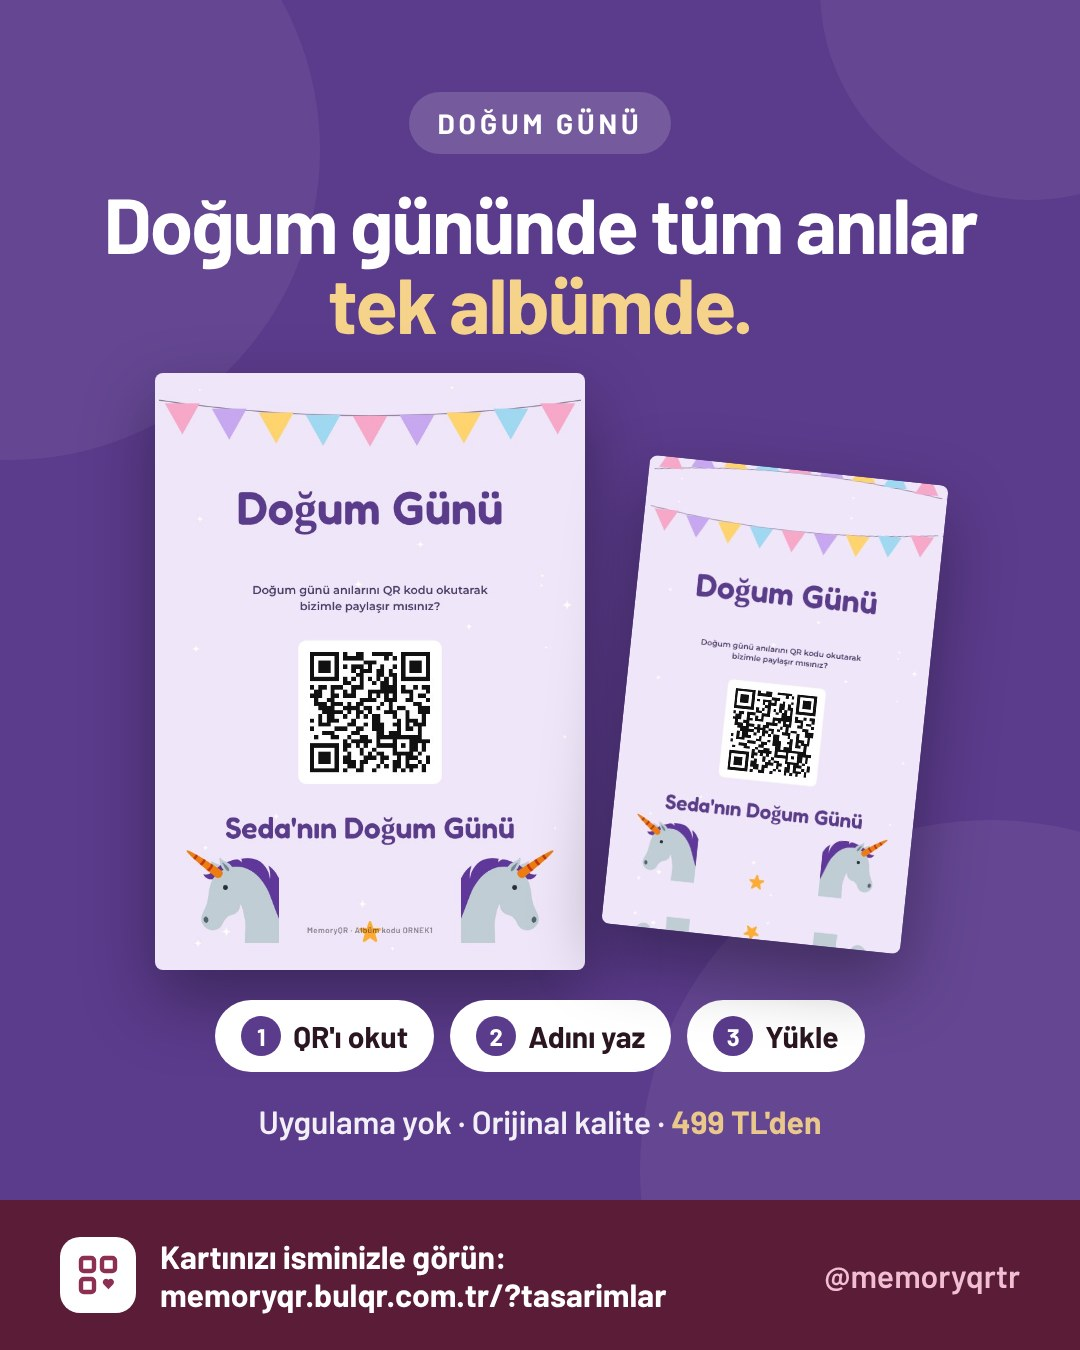
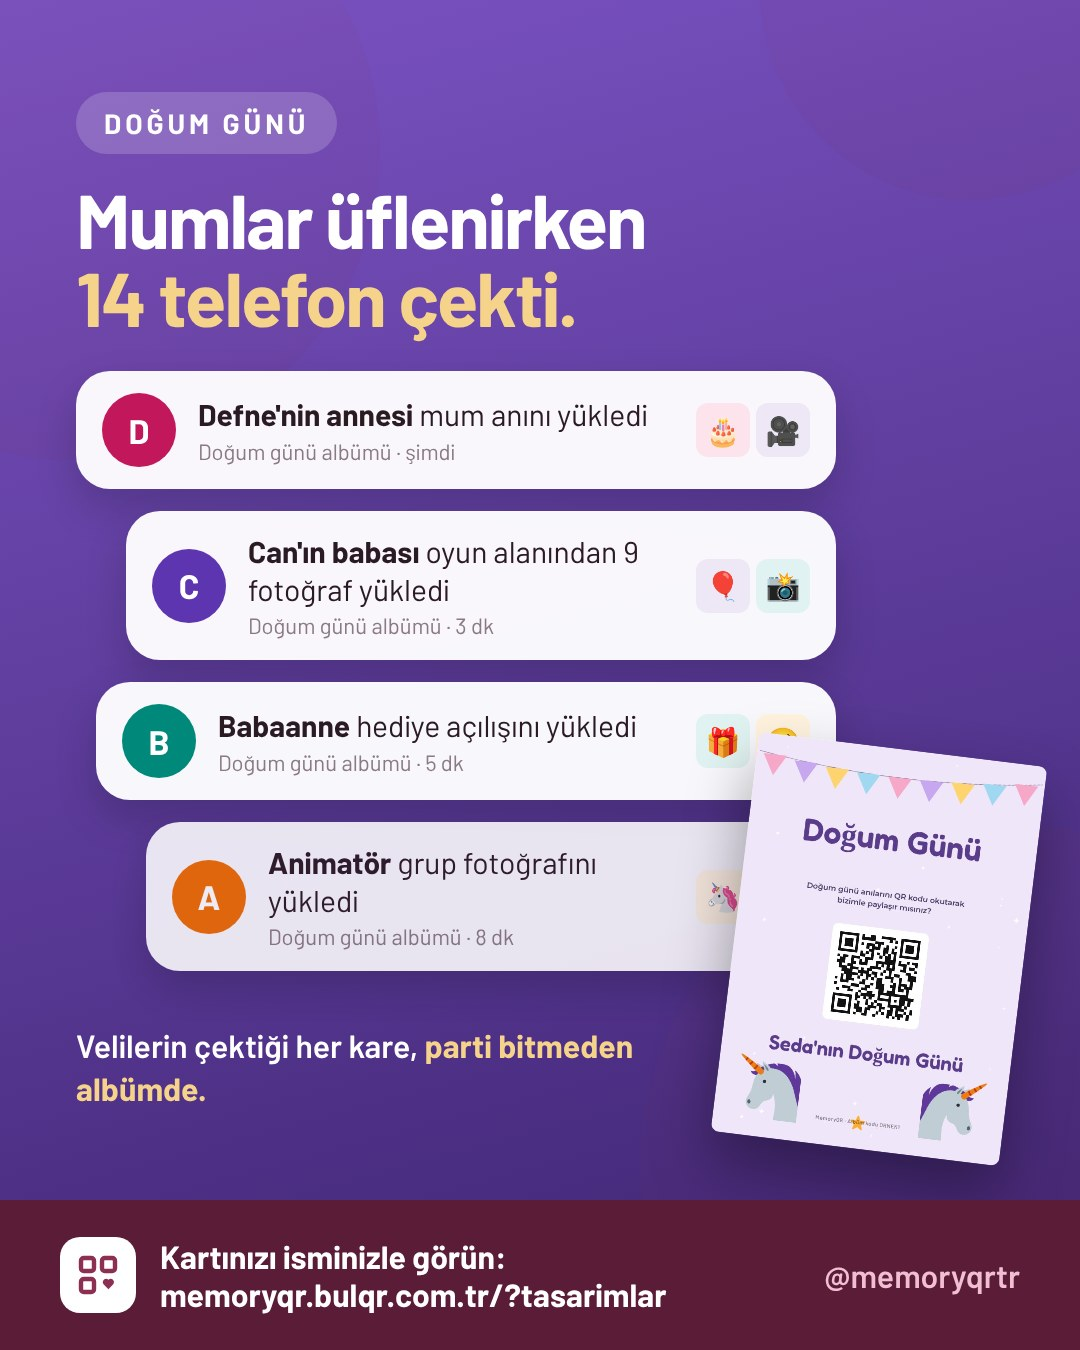
Instagram etkinlik serisi yeniden: her etkinliğe özel espri ve albüme düşen misafir bildirimleri (E17-E23)
Claude-Session: https://claude.ai/code/session_013LggcHU5H3775AuoLzGk1M

diff --git a/pazarlama/ig/ekstra.js b/pazarlama/ig/ekstra.js
@@ -204,19 +204,46 @@ const IG_EKSTRA = [
         ["kilit", "Gizlilik", "Albümün tamamını yalnızca siz görürsünüz."],
         ["hediye", "Ek: 1 yıl saklama", "+299 TL, Google Drive arşivi."]], bant: "Tek seferlik ödeme, | abonelik yok."},
       {tpl: "m-cta", b: ["Paketinizi seçin,", "siparişi başlatın."]}]},
-  // ---- etkinlik türü serisi: her tür ayrı gönderi (gerçek kart tasarımı + kartvizit)
+  // ---- etkinlik serisi: her etkinliğin kendi esprisi; albüme düşen misafir bildirimleri ve köşede gerçek kart
   ...[
-    ["Düğün", "dugun", "Seda & Yusuf", "lacivert_barok", "#5a1c36", ["Düğününüzün tüm anıları", "tek albümde."], "#düğünfotoğrafları"],
-    ["Kına gecesi", "kina", "Seda'nın Kına Gecesi", "bordo_gul", "#7a1a24", ["Kına gecesinin her karesi", "tek albümde."], "#kınaorganizasyonu"],
-    ["Nişan", "nisan", "Seda & Yusuf", "pudra_yuzuk", "#6d4a5a", ["Nişan anılarınız", "için tek QR."], "#nişanhazırlığı"],
-    ["Doğum günü", "dogum_gunu", "Seda'nın Doğum Günü", "unicorn", "#5b3b8c", ["Doğum gününde tüm anılar", "tek albümde."], "#doğumgünüpartisi"],
-    ["Mezuniyet", "mezuniyet", "Hukuk Fakültesi Mezuniyet Balosu", "mezun_lacivert", "#14295a", ["Bütün sınıfın fotoğrafları", "tek albümde."], "#mezuniyetbalosu"],
-    ["Sünnet", "sunnet", "Uras'ın Sünnet Düğünü", "sunnet_prens", "#13234d", ["Sünnet düğününüz", "tek albümde."], "#sünnetdüğünü"],
-    ["Baby shower", "baby_shower", "Seda'nın Baby Shower'ı", "bebek_pembe", "#a8486c", ["Baby shower'da", "her an tek albümde."], "#babyshower"],
-  ].map(([ad, kind, isim, tasarim, renk, b, tag]) => ({t: "gonderi", h: `Etkinlik serisi: ${ad}`,
-    ne: "Seriden bir gönderi. Hepsini art arda değil, haftaya yayarak paylaş; profilde yan yana renkli bir dizi oluşur.",
-    cap: `${ad} için QR kodlu ortak albüm 📸\n\nMisafirleriniz masadaki QR'ı okutur, adını yazar, çektiği fotoğraf ve videoları yükler. Uygulama yok, orijinal kalite. Kart ve kartvizit kendi isminizle hazırlanır.\n\n💌 Paketler 499 TL'den başlıyor.\n👉 Tasarımınızı seçin: link profilde`,
-    tags: [tag, "#qrkod", "#anıalbümü", "#misafirfotoğrafları"],
-    slides: [{tpl: "m-tur", etiket: ad, kind, isim, tasarim, renk, b}]})),
+    {ad: "Düğün", kind: "dugun", isim: "Seda & Yusuf", tasarim: "lacivert_barok", renk: "#4a1530", renk2: "#8c2f52", tag: "#düğünfotoğrafları",
+      b: ["Halanız 47 fotoğraf çekti.", "Hepsi albümünüzde."], albumAd: "Seda & Yusuf albümü",
+      bildirim: [["Halan", "47 fotoğraf yükledi", ["💃", "📸"], "şimdi"], ["Kuzen Mert", "ilk dansı 3 videoyla yükledi", ["🎥", "💞"], "2 dk"], ["Masa 7", "toplu fotoğrafı yükledi", ["👨👩👧", "🥂"], "5 dk"], ["Dedeniz", "1 video yükledi (biraz titrek)", ["😄", "🎥"], "8 dk"]],
+      alt: "Fotoğrafçının göremediği her an, **misafirlerin gözünden.**",
+      cap: "Düğünün en güzel kareleri genelde misafirlerin telefonunda kalır 📸\n\nMemoryQR'da masadaki QR'ı okutan herkes çektiğini doğrudan albümünüze yükler. Halanızın 47 fotoğrafı da, dedenizin titrek videosu da 😄\n\n💌 Paketler 499 TL'den. 👉 Tasarımınızı seçin: link profilde"},
+    {ad: "Kına gecesi", kind: "kina", isim: "Seda'nın Kına Gecesi", tasarim: "bordo_gul", renk: "#5a0e18", renk2: "#a3263a", tag: "#kınaorganizasyonu",
+      b: ["Halay videosu kimdeydi?", "Artık albümünüzde."], albumAd: "Kına gecesi albümü",
+      bildirim: [["Teyzen", "halay videosunu yükledi", ["💃", "🎶"], "şimdi"], ["Elif", "kına yakılırken 12 fotoğraf yükledi", ["🔴", "📸"], "3 dk"], ["Annen", "'Yüksek yüksek tepelere' videosunu yükledi", ["🎤", "🥹"], "6 dk"], ["Zeynep", "bindallı fotoğraflarını yükledi", ["👑", "✨"], "9 dk"]],
+      alt: "Türküler, halaylar, gözyaşları: **kına bir kere yaşanır.**",
+      cap: "Kına gecesinin en güzel videoları hep birilerinin telefonunda kalır 💃\n\nMemoryQR ile masadaki QR'ı okutan herkes çektiğini doğrudan albümünüze yükler. Kına + düğün için 2 albümlü Aile paketimiz de var.\n\n👉 Tasarımınızı seçin: link profilde"},
+    {ad: "Nişan", kind: "nisan", isim: "Seda & Yusuf", tasarim: "pudra_yuzuk", renk: "#5e3a48", renk2: "#a06a7c", tag: "#nişanhazırlığı",
+      b: ["Yüzük anı,", "6 farklı açıdan."], albumAd: "Nişan albümü",
+      bildirim: [["Kayınvalide", "yüzük anını yükledi", ["💍", "📸"], "şimdi"], ["Abin", "aynı anı başka açıdan yükledi", ["💍", "🎥"], "1 dk"], ["Nişan masası", "8 fotoğraf yükledi", ["🌸", "🥂"], "4 dk"], ["Kuzen Ayşe", "aile fotoğrafını yükledi", ["👨👩👧👦", "✨"], "7 dk"]],
+      alt: "İki ailenin ilk ortak fotoğrafları **tek albümde.**",
+      cap: "Yüzükler takılırken herkes telefonunu kaldırır 💍 O kareleri tek tek istemenize gerek yok.\n\nMemoryQR'da QR'ı okutan her misafir çektiğini doğrudan albümünüze yükler.\n\n👉 Tasarımınızı seçin: link profilde"},
+    {ad: "Doğum günü", kind: "dogum_gunu", isim: "Seda'nın Doğum Günü", tasarim: "unicorn", renk: "#3d2470", renk2: "#7a52c2", tag: "#doğumgünüpartisi",
+      b: ["Mumlar üflenirken", "14 telefon çekti."], albumAd: "Doğum günü albümü",
+      bildirim: [["Defne'nin annesi", "mum anını yükledi", ["🎂", "🎥"], "şimdi"], ["Can'ın babası", "oyun alanından 9 fotoğraf yükledi", ["🎈", "📸"], "3 dk"], ["Babaanne", "hediye açılışını yükledi", ["🎁", "🥹"], "5 dk"], ["Animatör", "grup fotoğrafını yükledi", ["🦄", "✨"], "8 dk"]],
+      alt: "Velilerin çektiği her kare, **parti bitmeden albümde.**",
+      cap: "Parti biter, fotoğraflar 14 farklı velinin telefonunda kalır 🎈\n\nMemoryQR ile pastanın yanındaki QR'ı okutan herkes çektiğini albüme yükler. Çocuğunuzun ismiyle hazır kartlar.\n\n👉 Tasarımınızı seçin: link profilde"},
+    {ad: "Mezuniyet", kind: "mezuniyet", isim: "Hukuk Fakültesi Mezuniyet Balosu", tasarim: "mezun_lacivert", renk: "#0d1d42", renk2: "#2a4a8c", tag: "#mezuniyetbalosu",
+      b: ["Kep atma anı,", "bütün sınıfın gözünden."], albumAd: "Mezuniyet albümü",
+      bildirim: [["Melis", "kep atma videosunu yükledi", ["🎓", "🎥"], "şimdi"], ["Sınıf başkanı", "toplu fotoğrafı yükledi", ["👩🎓", "📸"], "2 dk"], ["Burak", "balodan 22 fotoğraf yükledi", ["🕺", "✨"], "6 dk"], ["Hocamız", "konuşmasını yükledi", ["🎤", "👏"], "9 dk"]],
+      alt: "Sınıf grubuna kimse atmaz. **Albüme herkes yükler.**",
+      cap: "Balo gecesi herkes çeker, kimse paylaşmaz 🎓\n\nMemoryQR ile masalardaki QR'ı okutan her mezun çektiğini sınıfın ortak albümüne yükler. Sınıf temsilcileri, bize yazın.\n\n👉 Tasarımlar: link profilde"},
+    {ad: "Sünnet", kind: "sunnet", isim: "Uras'ın Sünnet Düğünü", tasarim: "sunnet_prens", renk: "#0e1c40", renk2: "#2b4a86", tag: "#sünnetdüğünü",
+      b: ["Dedesinin çektiği", "en güzel video da albümde."], albumAd: "Sünnet düğünü albümü",
+      bildirim: [["Dede", "1 video yükledi (biraz bulanık)", ["👑", "🥹"], "şimdi"], ["Amcan", "ata binme anını yükledi", ["🐎", "🎥"], "2 dk"], ["Teyzen", "takı merasiminden 15 fotoğraf yükledi", ["✨", "📸"], "5 dk"], ["Kuzen Efe", "dans videosunu yükledi", ["💃", "🎶"], "8 dk"]],
+      alt: "Küçük prensin büyük günü, **herkesin gözünden.**",
+      cap: "Sünnet düğününde en kıymetli kareler, dedenin titrek ellerle çektiği videolardır 🤍\n\nMemoryQR ile masadaki QR'ı okutan herkes çektiğini albümünüze yükler. Uygulama yok, orijinal kalite.\n\n👉 Tasarımınızı seçin: link profilde"},
+    {ad: "Baby shower", kind: "baby_shower", isim: "Seda'nın Baby Shower'ı", tasarim: "bebek_pembe", renk: "#8a3458", renk2: "#d07a9a", vurgu: "#fff1b8", tag: "#babyshower",
+      b: ["Kız mı, erkek mi?", "O an herkesin gözünden."], albumAd: "Baby shower albümü",
+      bildirim: [["Annen", "açıklama anını yükledi", ["🎈", "🥹"], "şimdi"], ["Kardeşin", "aynı anı yavaş çekimle yükledi", ["🎀", "🎥"], "1 dk"], ["İş arkadaşların", "9 fotoğraf yükledi", ["🧸", "📸"], "4 dk"], ["Eşin", "ilk tepkini yükledi", ["💞", "😂"], "6 dk"]],
+      alt: "Bebeğinize ilk albümü **misafirleriniz hazırlasın.**",
+      cap: "Kız mı erkek mi açıklandığı an, salondaki herkes kaydediyordu 🎈\n\nMemoryQR ile QR'ı okutan herkes çektiğini doğrudan albümünüze yükler. Bebeğinize ilk albüm hediyesi 🤍\n\n👉 Tasarımınızı seçin: link profilde"},
+  ].map(e => ({t: "gonderi", h: `Etkinlik serisi: ${e.ad}`,
+    ne: "Seriden bir gönderi. Haftaya yayarak paylaş; her birinin kendi esprisi var, profilde renkli bir dizi oluşur.",
+    cap: e.cap, tags: [e.tag, "#qrkod", "#anıalbümü", "#misafirfotoğrafları"],
+    slides: [{tpl: "m-bil", etiket: e.ad, ...e}]})),
 ];
 if (typeof module !== "undefined") module.exports = {IG_EKSTRA};

diff --git a/pazarlama/ig/sablon.html b/pazarlama/ig/sablon.html
@@ -180,6 +180,21 @@ body{margin:0;background:#888;font-family:var(--body)}
 .m.tur .tst i{font-style:normal;width:40px;height:40px;border-radius:50%;background:var(--tz);color:#fff;display:grid;place-items:center;font-size:24px}
 .m.tur .tpr{align-self:center;color:#fff;font:600 32px var(--body);opacity:.92}.m.tur .tpr b{color:var(--ta)}
 .m.tur .circ{background:rgba(255,255,255,.06)}
+
+/* bildirim serisi (m-bil): etkinliğe özel esprili başlık, albüme düşen misafir bildirimleri, köşede gerçek kart */
+.m.bil{background:linear-gradient(165deg,var(--tz2) 0%,var(--tz) 100%)}
+.m.bil .tag{background:rgba(255,255,255,.18);color:#fff}
+.m.bil .mh{color:#fff;font-size:76px}.m.bil .mh em{color:var(--ta)}
+.m.bil .nots{position:relative;display:grid;gap:22px;width:760px;margin-top:10px}
+.m.bil .nt{display:flex;align-items:center;gap:22px;background:rgba(255,255,255,.96);border-radius:34px;padding:22px 26px;box-shadow:0 18px 40px rgba(0,0,0,.18)}
+.m.bil .nt:nth-child(2){margin-left:50px}.m.bil .nt:nth-child(3){margin-left:20px}.m.bil .nt:nth-child(4){margin-left:70px;opacity:.9}
+.m.bil .av{width:74px;height:74px;border-radius:50%;display:grid;place-items:center;font:700 34px var(--body);color:#fff;flex:none}
+.m.bil .nt p{margin:0;flex:1;font:500 30px/1.25 var(--body);color:#2a1a22}.m.bil .nt p b{font-weight:700}
+.m.bil .nt small{display:block;font:500 22px var(--body);color:#8a7a82;margin-top:4px}
+.m.bil .th3{display:flex;gap:6px}.m.bil .th3 i{width:54px;height:54px;border-radius:12px;display:grid;place-items:center;font-style:normal;font-size:28px}
+.m.bil .kcard{position:absolute;right:56px;bottom:200px;width:290px;transform:rotate(7deg);border-radius:8px;box-shadow:0 30px 60px rgba(0,0,0,.35)}
+.m.bil .alt2{position:absolute;left:76px;bottom:208px;width:560px;font:600 32px/1.35 var(--body);color:#fff}
+.m.bil .alt2 b{color:var(--ta)}
 </style>
 </head>
 <body>
@@ -282,6 +297,17 @@ async function renderM(el, s, d) {
       <p class="mt" style="font-size:36px;margin-top:-6px">${md(s.kime)}</p>
       <div class="pkimg" style="background-image:url(${img})"></div>
       <ul class="pkl">${s.maddeler.map(x => `<li><span>${md(x)}</span></li>`).join("")}</ul></div>${band(s)}`;
+  } else if (t === "m-bil") {
+    el.classList.add("bil"); el.style.setProperty("--tz", s.renk); el.style.setProperty("--tz2", s.renk2 || s.renk); el.style.setProperty("--ta", s.vurgu || "#f6d38a");
+    await loadScript("kart.js"); await designReady(s.tasarim);
+    const kart = drawCard({code: "ORNEK1", title: s.isim, kind: s.kind, event_date: "2026-06-14"}, s.tasarim, "", 5).toDataURL("image/jpeg", .9);
+    const COL = ["#c2185b", "#5e35b1", "#00897b", "#ef6c00", "#3949ab", "#6d4c41"];
+    const TINT = ["#fde4ec", "#ede7f6", "#e0f2f1", "#fff3e0", "#e8eaf6", "#efebe9"];
+    el.innerHTML = `${circles(1)}<div class="mpad" style="gap:26px"><div class="tag">${esc(s.etiket)}</div>${head({...s, hs: s.hs || 76})}
+      <div class="nots">${s.bildirim.map(([ad, ne, em, zaman], i) => `<div class="nt"><div class="av" style="background:${COL[i % 6]}">${esc(ad.slice(0, 1))}</div>
+        <p><b>${esc(ad)}</b> ${esc(ne)}<small>${esc(s.albumAd)} · ${esc(zaman)}</small></p>
+        <div class="th3">${[0, 1].map(j => `<i style="background:${TINT[(i + j) % 6]}">${em[j] || em[0]}</i>`).join("")}</div></div>`).join("")}</div></div>
+      <p class="alt2">${md(s.alt)}</p><img class="kcard" src="${kart}">${band({bant: "Kartınızı isminizle görün: | memoryqr.bulqr.com.tr/?tasarimlar"})}`;
   } else if (t === "m-tur") {
     el.classList.add("tur"); el.style.setProperty("--tz", s.renk); el.style.setProperty("--ta", s.vurgu || "#f6d38a");
     await loadScript("kart.js");
